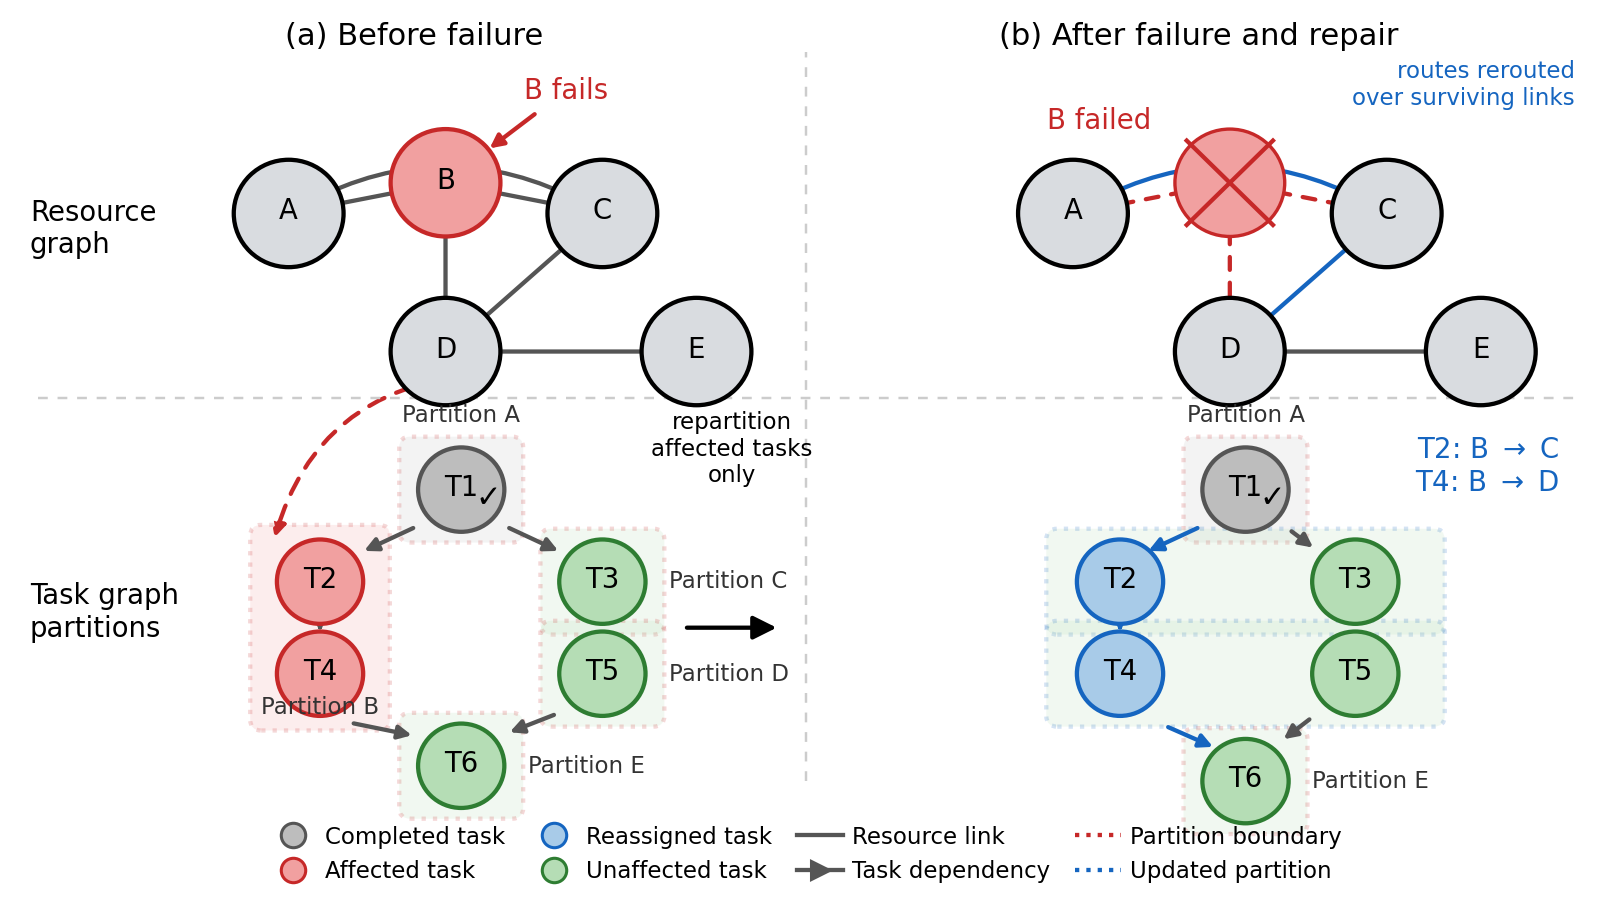
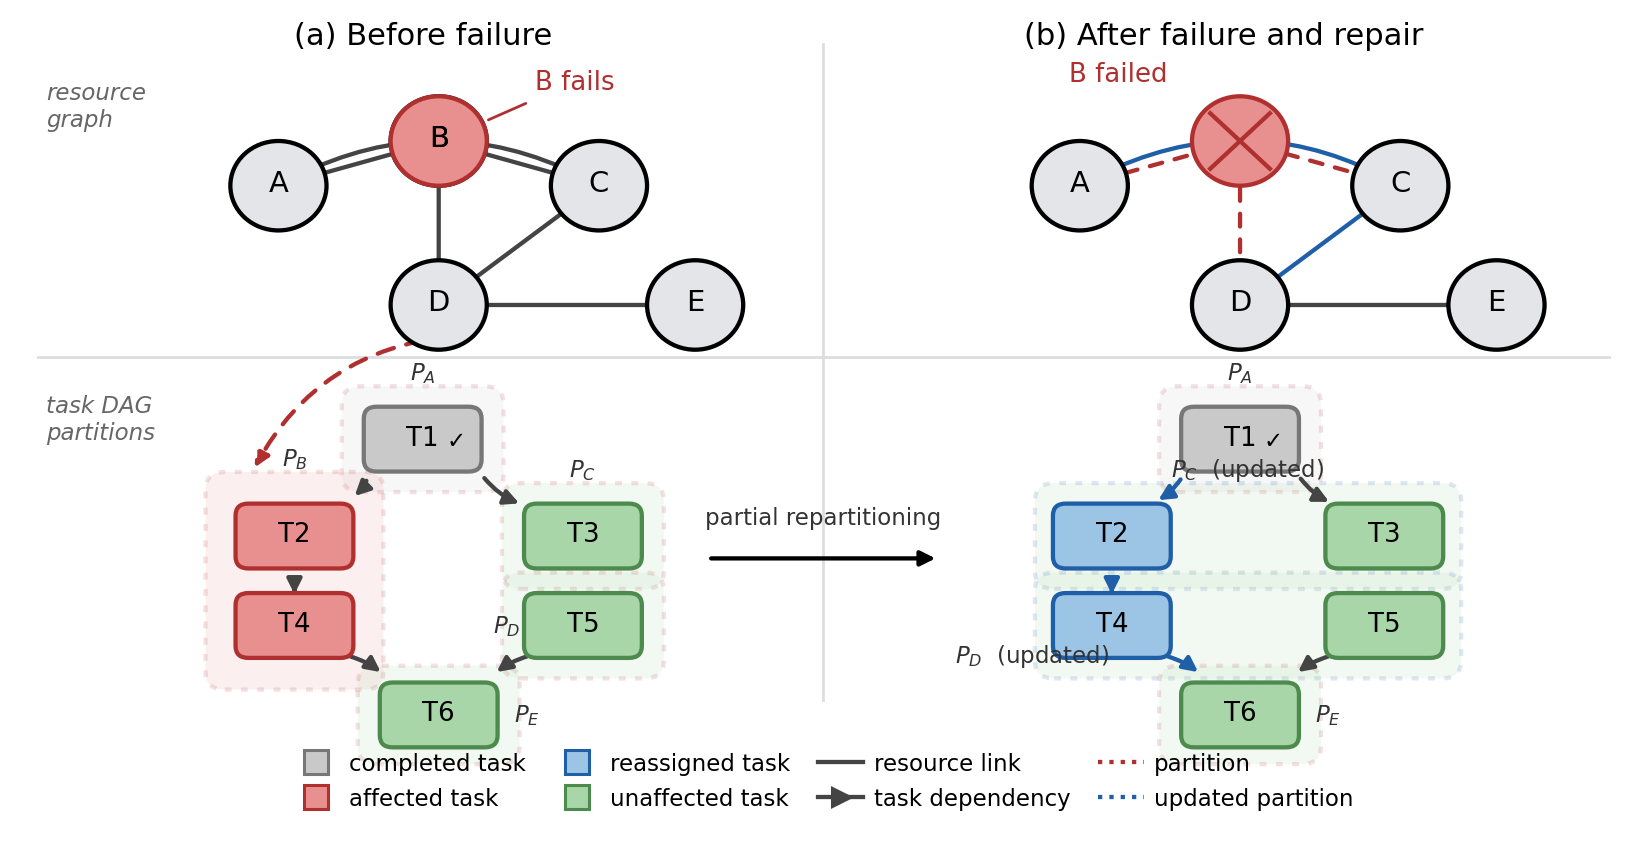
Restyle overview figure for publication
Rounded-rectangle task nodes, corner-labeled dotted partition
boundaries (red initial, blue updated), minimal floating text, and a
single consistent line weight throughout.

diff --git a/python/make_overview_fig.py b/python/make_overview_fig.py
@@ -5,182 +5,186 @@ import matplotlib.pyplot as plt
 from matplotlib.patches import Circle, FancyArrowPatch, FancyBboxPatch
 from matplotlib.lines import Line2D
 
-FS = 9
+FS = 8.5
 FS_T = 10
-
-C_DONE = "#bdbdbd"
-C_AFF = "#f1a0a0"
-C_NEW = "#a8cbe8"
-C_OK = "#b5ddb5"
-RED = "#c62828"
-BLUE = "#1565c0"
-GREEN = "#2e7d32"
-GREY = "#555555"
 LW = 1.4
 
+C_DONE = "#c9c9c9"      # completed task
+C_AFF = "#e88f8f"       # affected task
+C_NEW = "#9cc4e4"       # reassigned task
+C_OK = "#a9d6a9"        # unaffected task
+RED = "#b03030"
+BLUE = "#1f5fa8"
+GREY = "#444444"
 
-def node(ax, x, y, label, r=5.5, fc="#d9dce0", ec="black", check=False):
+
+def rnode(ax, x, y, label, r=6.0, fc="#e3e5e8", dead=False):
+    """Resource node."""
+    ec = RED if dead else "black"
     ax.add_patch(Circle((x, y), r, facecolor=fc, edgecolor=ec,
                         linewidth=LW, zorder=3))
-    ax.text(x, y + 0.3, label, ha="center", va="center", fontsize=FS,
-            zorder=4)
-    if check:
-        ax.text(x + 3.4, y - 1.1, "\u2713", ha="center", va="center",
+    if dead:
+        d = r * 0.62
+        for s in (1, -1):
+            ax.plot([x - d, x + d], [y - s * d, y + s * d], color=RED,
+                    lw=LW, zorder=4)
+    else:
+        ax.text(x, y + 0.4, label, ha="center", va="center",
                 fontsize=FS + 1, zorder=4)
 
 
-def link(ax, p0, p1, color=GREY, lw=LW, ls="-", rad=0.0, arrow=False,
-         sh=7.5):
+def tnode(ax, x, y, label, fc, ec, w=13.5, h=7.5, check=False):
+    """Task node: rounded rectangle."""
+    ax.add_patch(FancyBboxPatch((x - w / 2, y - h / 2), w, h,
+                 boxstyle="round,pad=0.6,rounding_size=1.6",
+                 facecolor=fc, edgecolor=ec, linewidth=LW, zorder=3))
+    ax.text(x, y + 0.2, label, ha="center", va="center", fontsize=FS,
+            zorder=4)
+    if check:
+        ax.text(x + w / 2 - 2.6, y - 0.2, "\u2713", ha="center",
+                va="center", fontsize=FS - 1, zorder=4)
+
+
+def elink(ax, p0, p1, color=GREY, ls="-", rad=0.0, arrow=False, sh=7.0):
     ax.add_patch(FancyArrowPatch(p0, p1, connectionstyle=f"arc3,rad={rad}",
-                 arrowstyle="-|>" if arrow else "-", mutation_scale=9,
-                 color=color, lw=lw, linestyle=ls, zorder=2,
+                 arrowstyle="-|>" if arrow else "-", mutation_scale=10,
+                 color=color, lw=LW, linestyle=ls, zorder=2,
                  shrinkA=sh, shrinkB=sh))
 
 
-def part_box(ax, x, y, w, h, color, edge=RED):
+def partition(ax, x, y, w, h, tint, edge, label, lx=None, ly=None):
+    """Dotted partition boundary with a small corner label."""
     ax.add_patch(FancyBboxPatch((x - w / 2, y - h / 2), w, h,
-                 boxstyle="round,pad=1.4", facecolor=color, alpha=0.18,
-                 edgecolor=edge, linewidth=LW,
-                 linestyle=":", zorder=1))
+                 boxstyle="round,pad=1.6,rounding_size=2.4",
+                 facecolor=tint, alpha=0.14, edgecolor=edge,
+                 linewidth=LW, linestyle=(0, (1.6, 2.2)), zorder=1))
+    ax.text(lx if lx is not None else x,
+            ly if ly is not None else y + h / 2 + 3.4,
+            label, ha="center", va="center", fontsize=FS - 1,
+            color="#333333", zorder=4)
 
 
-fig, ax = plt.subplots(figsize=(9.2, 4.8))
+fig, ax = plt.subplots(figsize=(9.4, 4.4))
 ax.set_xlim(0, 200)
-ax.set_ylim(0, 106)
+ax.set_ylim(0, 100)
 ax.axis("off")
 
 # dividers
-ax.plot([100, 100], [8, 103], color="#cccccc", lw=0.8, ls=(0, (4, 4)))
-ax.plot([2, 198], [58, 58], color="#cccccc", lw=0.8, ls=(0, (4, 4)))
+ax.plot([100, 100], [9, 97], color="#dddddd", lw=0.9)
+ax.plot([2, 198], [55, 55], color="#dddddd", lw=0.9)
 
-ax.text(50, 104, "(a) Before failure", ha="center", fontsize=FS_T)
-ax.text(150, 104, "(b) After failure and repair", ha="center",
+ax.text(50, 97, "(a) Before failure", ha="center", fontsize=FS_T)
+ax.text(150, 97, "(b) After failure and repair", ha="center",
         fontsize=FS_T)
-ax.text(1, 80, "Resource\ngraph", ha="left", va="center", fontsize=FS)
-ax.text(1, 30, "Task graph\npartitions", ha="left", va="center",
-        fontsize=FS)
+ax.text(3, 92, "resource\ngraph", ha="left", va="top", fontsize=FS - 1,
+        color="#666666", style="italic")
+ax.text(3, 50, "task DAG\npartitions", ha="left", va="top",
+        fontsize=FS - 1, color="#666666", style="italic")
 
-# ---------------- resource graph (left) ----------------
-res = {"A": (34, 82), "B": (54, 86), "C": (74, 82), "D": (54, 64),
-       "E": (86, 64)}
-for u, v, rad in [("A", "B", 0), ("B", "C", 0), ("A", "C", -0.3),
+# ---------------- panel (a): resource graph ----------------
+R = {"A": (32, 78), "B": (52, 84), "C": (72, 78), "D": (52, 62),
+     "E": (84, 62)}
+for u, v, rad in [("A", "B", 0), ("B", "C", 0), ("A", "C", -0.28),
                   ("B", "D", 0), ("C", "D", 0), ("D", "E", 0)]:
-    link(ax, res[u], res[v], rad=rad)
+    elink(ax, R[u], R[v], rad=rad)
 for k in ("A", "C", "D", "E"):
-    node(ax, *res[k], k, r=7)
-node(ax, *res["B"], "B", r=7, fc=C_AFF, ec=RED)
-ax.annotate("B fails", xy=(59, 90), xytext=(64, 97),
-            color=RED, fontsize=FS, ha="left",
-            arrowprops=dict(arrowstyle="-|>", color=RED, lw=LW))
+    rnode(ax, *R[k], k)
+rnode(ax, *R["B"], "B", fc=C_AFF, dead=False)
+ax.add_patch(Circle(R["B"], 6.0, facecolor=C_AFF, edgecolor=RED,
+                    lw=LW, zorder=3))
+ax.text(R["B"][0], R["B"][1] + 0.4, "B", ha="center", va="center",
+        fontsize=FS + 1, zorder=4)
+ax.annotate("B fails", xy=(57.5, 86.5), xytext=(64, 91), color=RED,
+            fontsize=FS, ha="left",
+            arrowprops=dict(arrowstyle="-", color=RED, lw=0.9))
 
-# ---------------- resource graph (right) ----------------
-res2 = {k: (x + 100, y) for k, (x, y) in res.items()}
+# ---------------- panel (b): resource graph ----------------
+R2 = {k: (x + 100, y) for k, (x, y) in R.items()}
 for u, v in [("A", "B"), ("B", "C"), ("B", "D")]:
-    link(ax, res2[u], res2[v], lw=LW, color=RED, ls=(0, (3, 3)))
-link(ax, res2["D"], res2["E"])
-link(ax, res2["A"], res2["C"], rad=-0.3, lw=LW, color=BLUE, arrow=True)
-link(ax, res2["C"], res2["D"], lw=LW, color=BLUE, arrow=True)
+    elink(ax, R2[u], R2[v], color=RED, ls=(0, (3, 3)))
+elink(ax, R2["D"], R2["E"])
+elink(ax, R2["A"], R2["C"], rad=-0.28, color=BLUE, arrow=True)
+elink(ax, R2["C"], R2["D"], color=BLUE, arrow=True)
 for k in ("A", "C", "D", "E"):
-    node(ax, *res2[k], k, r=7)
-ax.add_patch(Circle(res2["B"], 7, facecolor=C_AFF, edgecolor=RED,
-                    lw=1.1, zorder=3))
-bx, by = res2["B"]
-ax.plot([bx - 5.5, bx + 5.5], [by - 5.5, by + 5.5], color=RED, lw=LW,
-        zorder=4)
-ax.plot([bx - 5.5, bx + 5.5], [by + 5.5, by - 5.5], color=RED, lw=LW,
-        zorder=4)
-ax.text(144, 93, "B failed", color=RED, fontsize=FS, ha="right")
-ax.text(198, 102, "routes rerouted\nover surviving links", color=BLUE,
-        fontsize=FS - 1.5, ha="right", va="top")
+    rnode(ax, *R2[k], k)
+rnode(ax, *R2["B"], "", fc=C_AFF, dead=True)
+ax.text(143, 92, "B failed", color=RED, fontsize=FS, ha="right")
 
-# ---------------- task graph (left) ----------------
-node(ax, 56, 46, "T1", fc=C_DONE, ec=GREY, check=True)
-part_box(ax, 56, 46, 13, 11, C_DONE)
-ax.text(56, 54.8, "Partition A", ha="center", fontsize=FS - 1.5,
-        color="#333333")
+# ---------------- panel (a): task DAG ----------------
+def tdep(ax, p0, p1, color=GREY, rad=0.0):
+    elink(ax, p0, p1, color=color, rad=rad, arrow=True, sh=8.0)
 
-node(ax, 38, 34, "T2", fc=C_AFF, ec=RED)
-node(ax, 38, 22, "T4", fc=C_AFF, ec=RED)
-part_box(ax, 38, 28, 15, 24, C_AFF)
-ax.text(38, 16.8, "Partition B", ha="center", fontsize=FS - 1.5,
-        color="#333333")
+tnode(ax, 50, 44, "T1", C_DONE, "#777777", check=True)
+partition(ax, 50, 44, 17, 11, C_DONE, RED, "$P_A$")
 
-node(ax, 74, 34, "T3", fc=C_OK, ec=GREEN)
-part_box(ax, 74, 34, 13, 11, C_OK)
-ax.text(82.5, 34, "Partition C", ha="left", va="center",
-        fontsize=FS - 1.5, color="#333333")
-node(ax, 74, 22, "T5", fc=C_OK, ec=GREEN)
-part_box(ax, 74, 22, 13, 11, C_OK)
-ax.text(82.5, 22, "Partition D", ha="left", va="center",
-        fontsize=FS - 1.5, color="#333333")
-node(ax, 56, 10, "T6", fc=C_OK, ec=GREEN)
-part_box(ax, 56, 10, 13, 11, C_OK)
-ax.text(64.5, 10, "Partition E", ha="left", va="center",
-        fontsize=FS - 1.5, color="#333333")
+tnode(ax, 34, 31, "T2", C_AFF, RED)
+tnode(ax, 34, 19, "T4", C_AFF, RED)
+partition(ax, 34, 25, 19, 26, C_AFF, RED, "$P_B$")
 
-link(ax, (52, 42), (41.5, 37), arrow=True, sh=6)
-link(ax, (60, 42), (70.5, 37), arrow=True, sh=6)
-link(ax, (38, 28.5), (38, 27.5), arrow=True, sh=6)
-link(ax, (40, 16), (52, 13.5), arrow=True, sh=6)
-link(ax, (70, 17.5), (60, 13.5), arrow=True, sh=6)
+tnode(ax, 70, 31, "T3", C_OK, "#4d8a4d")
+partition(ax, 70, 31, 17, 11, C_OK, RED, "$P_C$")
+tnode(ax, 70, 19, "T5", C_OK, "#4d8a4d")
+partition(ax, 70, 19, 17, 11, C_OK, RED, "$P_D$", lx=60.5, ly=19)
+tnode(ax, 52, 7, "T6", C_OK, "#4d8a4d")
+partition(ax, 52, 7, 17, 10, C_OK, RED, "$P_E$", lx=63, ly=7)
 
-ax.add_patch(FancyArrowPatch((58, 61), (32, 39),
-             connectionstyle="arc3,rad=0.35", arrowstyle="-|>",
-             mutation_scale=9, color=RED, lw=LW,
-             linestyle=(0, (4, 3))))
+tdep(ax, (44, 41.5), (39, 34.5), rad=-0.25)
+tdep(ax, (56, 41.5), (65, 34.5), rad=0.25)
+tdep(ax, (34, 27), (34, 23.2))
+tdep(ax, (38, 15.5), (47, 10.5), rad=-0.2)
+tdep(ax, (66, 15.5), (57, 10.5), rad=0.2)
 
-ax.add_patch(FancyArrowPatch((84, 28), (97, 28), arrowstyle="-|>",
-             mutation_scale=16, color="black", lw=LW))
-ax.text(90.5, 47, "repartition\naffected tasks\nonly", ha="center",
-        fontsize=FS - 1.5)
+# failure -> affected partition
+elink(ax, (56, 58), (28, 38), color=RED, ls=(0, (4, 3)), rad=0.3,
+      arrow=True, sh=6)
+ax.text(100, 33.5, "partial repartitioning", ha="center", va="center",
+        fontsize=FS - 1, color="#333333")
+elink(ax, (86, 28), (114, 28), color="black", arrow=True, sh=0)
 
-# ---------------- task graph (right) ----------------
-node(ax, 156, 46, "T1", fc=C_DONE, ec=GREY, check=True)
-part_box(ax, 156, 46, 13, 11, C_DONE)
-ax.text(156, 54.8, "Partition A", ha="center", fontsize=FS - 1.5,
-        color="#333333")
+# ---------------- panel (b): task DAG ----------------
+tnode(ax, 152, 44, "T1", C_DONE, "#777777", check=True)
+partition(ax, 152, 44, 17, 11, C_DONE, RED, "$P_A$")
 
-part_box(ax, 156, 34, 48, 11, C_OK, edge=BLUE)
-node(ax, 140, 34, "T2", fc=C_NEW, ec=BLUE)
-node(ax, 170, 34, "T3", fc=C_OK, ec=GREEN)
-part_box(ax, 156, 22, 48, 11, C_OK, edge=BLUE)
-node(ax, 140, 22, "T4", fc=C_NEW, ec=BLUE)
-node(ax, 170, 22, "T5", fc=C_OK, ec=GREEN)
-node(ax, 156, 8, "T6", fc=C_OK, ec=GREEN)
-part_box(ax, 156, 8, 13, 11, C_OK)
-ax.text(164.5, 8, "Partition E", ha="left", va="center",
-        fontsize=FS - 1.5, color="#333333")
+# updated partitions: same boxes, new members, blue dotted boundary
+tnode(ax, 136, 31, "T2", C_NEW, BLUE)
+tnode(ax, 170, 31, "T3", C_OK, "#4d8a4d")
+partition(ax, 153, 31, 50, 11, C_OK, BLUE, "$P_C$  (updated)")
+tnode(ax, 136, 19, "T4", C_NEW, BLUE)
+tnode(ax, 170, 19, "T5", C_OK, "#4d8a4d")
+partition(ax, 153, 19, 50, 11, C_OK, BLUE, "$P_D$  (updated)",
+          lx=126, ly=15)
+tnode(ax, 152, 7, "T6", C_OK, "#4d8a4d")
+partition(ax, 152, 7, 17, 10, C_OK, RED, "$P_E$", lx=163, ly=7)
 
-link(ax, (152, 42), (141.5, 37), color=BLUE, arrow=True, sh=6)
-link(ax, (160, 42), (166.5, 37), arrow=True, sh=6)
-link(ax, (140, 28.5), (140, 27.5), color=BLUE, arrow=True, sh=6)
-link(ax, (144, 16), (154, 11.5), color=BLUE, arrow=True, sh=6)
-link(ax, (166, 17.5), (159, 12), arrow=True, sh=6)
-
-ax.text(196, 53, "T2: B $\\rightarrow$ C\nT4: B $\\rightarrow$ D",
-        color=BLUE, fontsize=FS, ha="right", va="top")
+tdep(ax, (146, 41.5), (139, 34.5), color=BLUE, rad=-0.25)
+tdep(ax, (158, 41.5), (166, 34.5), color=GREY, rad=0.25)
+tdep(ax, (136, 27), (136, 23.2), color=BLUE)
+tdep(ax, (140, 15.5), (149, 10.5), color=BLUE, rad=-0.2)
+tdep(ax, (166, 15.5), (157, 10.5), color=GREY, rad=0.2)
 
 # ---------------- legend ----------------
 handles = [
-    Line2D([0], [0], marker="o", color="none", markerfacecolor=C_DONE,
-           markeredgecolor=GREY, markersize=8, label="Completed task"),
-    Line2D([0], [0], marker="o", color="none", markerfacecolor=C_AFF,
-           markeredgecolor=RED, markersize=8, label="Affected task"),
-    Line2D([0], [0], marker="o", color="none", markerfacecolor=C_NEW,
-           markeredgecolor=BLUE, markersize=8, label="Reassigned task"),
-    Line2D([0], [0], marker="o", color="none", markerfacecolor=C_OK,
-           markeredgecolor=GREEN, markersize=8, label="Unaffected task"),
-    Line2D([0], [0], color=GREY, lw=LW, label="Resource link"),
+    Line2D([0], [0], marker="s", color="none", markerfacecolor=C_DONE,
+           markeredgecolor="#777777", markersize=8,
+           label="completed task"),
+    Line2D([0], [0], marker="s", color="none", markerfacecolor=C_AFF,
+           markeredgecolor=RED, markersize=8, label="affected task"),
+    Line2D([0], [0], marker="s", color="none", markerfacecolor=C_NEW,
+           markeredgecolor=BLUE, markersize=8, label="reassigned task"),
+    Line2D([0], [0], marker="s", color="none", markerfacecolor=C_OK,
+           markeredgecolor="#4d8a4d", markersize=8,
+           label="unaffected task"),
+    Line2D([0], [0], color=GREY, lw=LW, label="resource link"),
     Line2D([0], [0], color=GREY, lw=LW, marker=">", markersize=6,
-           label="Task dependency"),
+           label="task dependency"),
     Line2D([0], [0], color=RED, lw=LW, linestyle=":",
-           label="Partition boundary"),
+           label="partition"),
     Line2D([0], [0], color=BLUE, lw=LW, linestyle=":",
-           label="Updated partition"),
+           label="updated partition"),
 ]
 ax.legend(handles=handles, loc="lower center",
-          bbox_to_anchor=(0.5, -0.075), ncol=4, fontsize=FS - 1.5,
-          frameon=False, columnspacing=1.1, handletextpad=0.4)
+          bbox_to_anchor=(0.5, -0.085), ncol=4, fontsize=FS - 1,
+          frameon=False, columnspacing=1.2, handletextpad=0.45)
 
 fig.savefig("figures/fig0_overview.png", dpi=220,
             bbox_inches="tight", facecolor="white")
